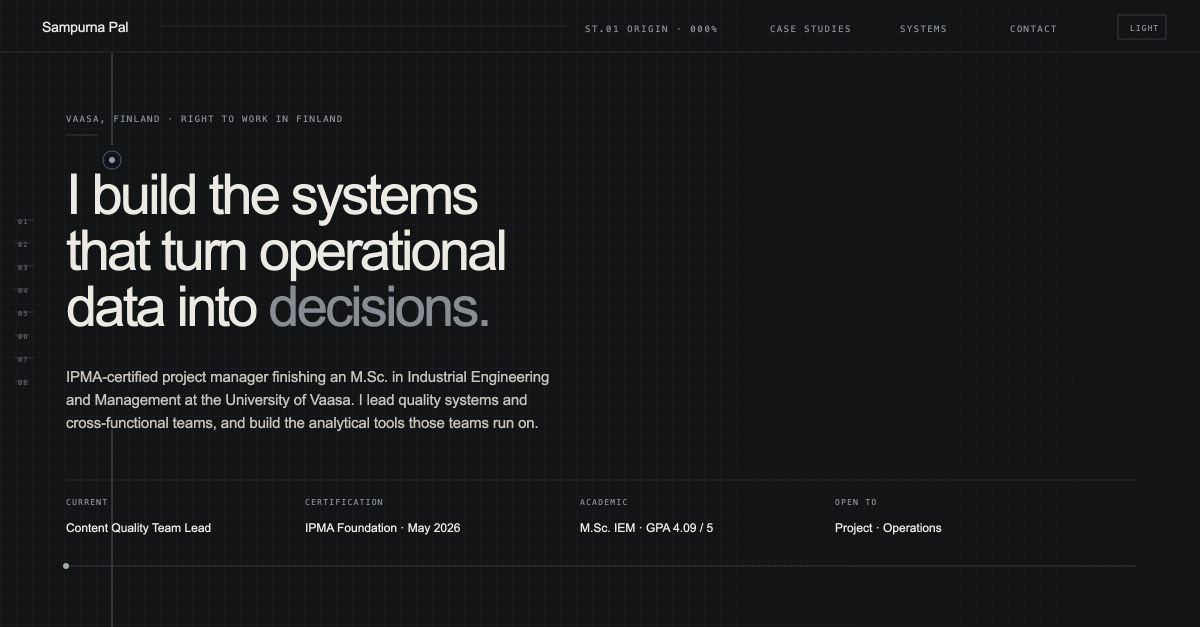
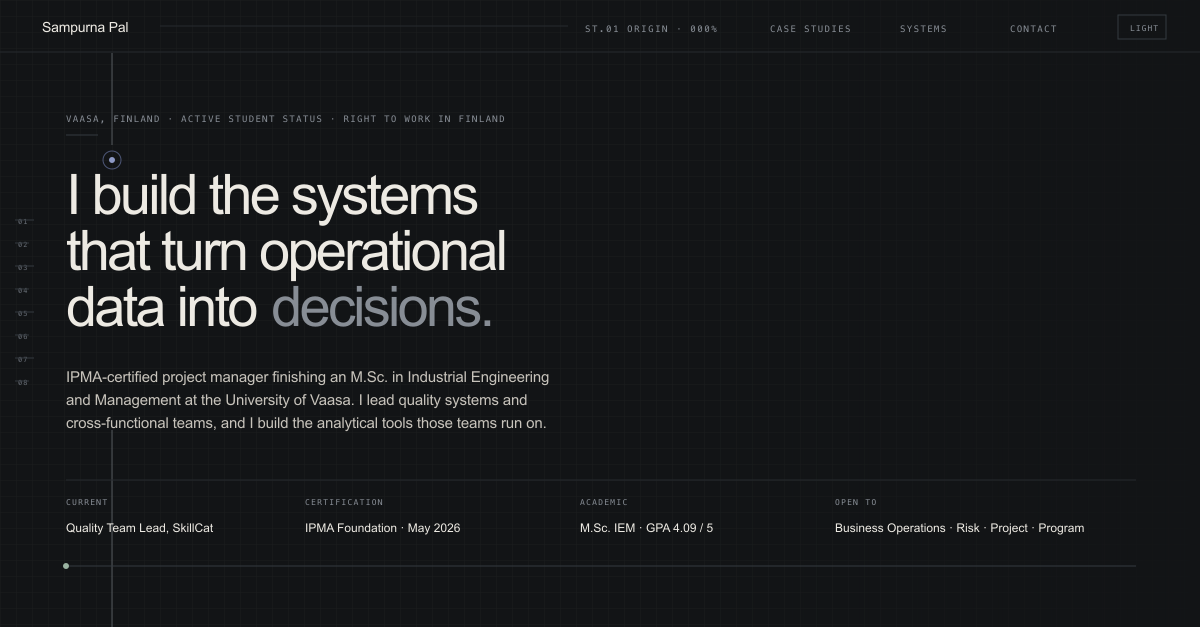
fix: repair mobile case headers and nav, refresh dated content
- Case study headers no longer overlap on screens up to 860px. The collapse
  rule sat before the .case-top base rule, so source order cancelled it.
- Section links drop to a second header row below 720px instead of hiding,
  with the section scroll offset driven by --bar-h to clear the taller bar.
- Re-render the OG preview with the current title and target roles.
- Mark the summer school and Finnish 3 & 4 complete, update ECTS to 86.
- Close out BestB4 as a finished incubator project, note Cohort 2 start.
- Drop the dated ungraded-submission note and the 7-month dashboard span.

diff --git a/index.html b/index.html
@@ -64,6 +64,7 @@
   --gut: clamp(1.15rem, 0.6rem + 2.6vw, 3.6rem);
   --sec: clamp(5.5rem, 3.5rem + 8vw, 11rem);
   --rail: 210px;
+  --bar-h: 54px;
 
   /* motion */
   --e-out:  cubic-bezier(0.22, 0.61, 0.36, 1);
@@ -261,8 +262,16 @@ a{ color: inherit; }
   transform: scaleX(0); transform-origin: left center;
   transition: transform 120ms linear;
 }
+/* Below 720px the section links drop to a second row rather than disappearing,
+   so phone visitors can still jump to the cases and contact details. */
 @media (max-width: 720px){
-  .bar-read, .bar-links{ display:none; }
+  .bar-read{ display:none; }
+  .bar{ height:auto; flex-wrap:wrap; row-gap:0; padding-top:.7rem; }
+  .bar-links{
+    order:1; flex-basis:100%; justify-content:space-between;
+    margin-top:.6rem; padding:.55rem 0 .6rem; border-top:1px solid var(--rule);
+  }
+  :root{ --bar-h: 92px; }
 }
 
 /* left measurement rail */
@@ -300,7 +309,7 @@ main{ position:relative; z-index:2; }
   padding: 0 var(--gut);
 }
 
-.sec{ padding: var(--sec) 0; position:relative; scroll-margin-top:54px; }
+.sec{ padding: var(--sec) 0; position:relative; scroll-margin-top: var(--bar-h); }
 .sec + .sec{ border-top: 1px solid var(--rule); }
 
 .sec-head{
@@ -329,11 +338,7 @@ main{ position:relative; z-index:2; }
 .grid2 > *, .sec-head > *, .case-top > *{ min-width: 0; }
 .figure, .figure-body{ min-width: 0; }
 @media (max-width: 860px){
-  /* .case-top has to collapse here too. It is built on the same
-     `var(--rail) 1fr` track pair, so with --rail at 0 its first column became
-     0px wide while the case ID text kept its own width and painted straight
-     over the case title and body copy. */
-  .sec-head, .grid2, .case-top{ grid-template-columns: 1fr; gap: 1.1rem; }
+  .sec-head, .grid2{ grid-template-columns: 1fr; gap: 1.1rem; }
   :root{ --rail: 0px; }
 }
 
@@ -465,6 +470,13 @@ h1.hero-title em{ font-style: normal; color: var(--slate); }
 .case h3{ font-size: clamp(1.35rem,1.05rem+1.1vw,1.95rem); max-width:22ch; letter-spacing:-0.026em; }
 .case .ctx{ margin-top:.65rem; color: var(--slate); }
 .case .body{ margin-top:1.15rem; color: var(--ink-2); max-width:62ch; line-height:1.6; }
+/* .case-top is built on the same `var(--rail) 1fr` track pair as .sec-head, so
+   with --rail at 0 its first column is 0px wide and the case ID paints straight
+   over the title and body copy. The collapse has to sit after the base rule
+   above, or source order cancels it. */
+@media (max-width: 860px){
+  .case-top{ grid-template-columns: 1fr; gap: .9rem; }
+}
 
 .figure{
   margin-top: clamp(1.8rem, 3.5vw, 3rem);
@@ -848,7 +860,7 @@ svg.dg .lat{ fill:none; stroke: var(--indigo); stroke-width:.8; opacity:0; }
     <dl class="hero-meta rv">
       <div><dt class="mono">Current</dt><dd>Quality Team Lead, SkillCat</dd></div>
       <div><dt class="mono">Certification</dt><dd>IPMA Foundation, May 2026</dd></div>
-      <div><dt class="mono">Academic</dt><dd>M.Sc. IEM, GPA 4.09 / 5 · 75 ECTS</dd></div>
+      <div><dt class="mono">Academic</dt><dd>M.Sc. IEM, GPA 4.09 / 5 · 86 ECTS</dd></div>
       <div><dt class="mono">Open to</dt><dd>Business Operations, Risk, Project, Program</dd></div>
     </dl>
   </div>
@@ -949,10 +961,10 @@ svg.dg .lat{ fill:none; stroke: var(--indigo); stroke-width:.8; opacity:0; }
           <div class="org">SkillCat, remote. Skilled-trades e-learning, 400,000+ tradespeople trained. Promoted from Content Quality Analyst (Jan 2026).</div>
           <ul>
             <li>Lead a team of 5 across quality assurance, content operations, and digitization.</li>
-            <li>Designed and own the SkillMap Cohort 1 Tracker.</li>
+            <li>Designed and own the SkillMap Cohort 1 Tracker (79 candidates, closed August 2026). Cohort 2 starts mid-November 2026.</li>
             <li>Built a 30-day, 5-department onboarding framework from scratch.</li>
             <li>Developed a 15-stage course production QA pipeline, Master Checklist v1.05, through 5+ revisions.</li>
-            <li>Report to leadership weekly through a live Looker Studio dashboard consolidating 7 months of quality-ticket data.</li>
+            <li>Report to leadership weekly through a live Looker Studio dashboard that consolidates the team's quality-ticket data.</li>
             <li>Ran ad-hoc audits across 2,000+ questions in 8 flagship courses, correcting faulty items, closing a PPE-labeling gap with a hazard-symbol fix, and rewriting duplicate BSP questions into situational formats.</li>
             <li>Facilitate daily team check-ins and end-of-day reviews, 3 to 4 weekly working sessions on active initiatives, and two weeks of daily onboarding sessions for every new hire.</li>
             <li>Pushed back on a proposal for full deadline automation from the Chief of Staff and recommended a manual-review dashboard with a bulk-fail action instead.</li>
@@ -968,10 +980,10 @@ svg.dg .lat{ fill:none; stroke: var(--indigo); stroke-width:.8; opacity:0; }
           <h3>Founder in Residence</h3>
           <div class="org">Vaasa Startup Factory</div>
           <ul>
-            <li>Co-founded BestB4, a real-time discount platform connecting Finnish grocery retailers with price-sensitive, sustainability-minded shoppers to cut food waste. Built over two months in Summer Bloom 2026, the Vaasa Startup Factory student incubator run with the six universities of Vaasa. Now raising pre-seed funding for a Vaasa pilot.</li>
+            <li>Co-founded BestB4, a real-time discount platform connecting Finnish grocery retailers with price-sensitive, sustainability-minded shoppers to cut food waste. Built as a two-month project in Summer Bloom 2026, the Vaasa Startup Factory student incubator run with the six universities of Vaasa. The project closed when the programme ended.</li>
           </ul>
         </div>
-        <div class="tl-span"><div class="bar-track"><div class="bar-fill" style="--w:.34;--dl:160ms"></div></div><small>Co-founder</small></div>
+        <div class="tl-span"><div class="bar-track"><div class="bar-fill" style="--w:.34;--dl:160ms"></div></div><small>Incubator project</small></div>
       </article>
 
       <article class="tl-row">
@@ -1097,7 +1109,7 @@ svg.dg .lat{ fill:none; stroke: var(--indigo); stroke-width:.8; opacity:0; }
         <div class="accent"><dt class="mono">Completed program</dt><dd><span class="num" data-count="45">45</span><small>of 79</small></dd></div>
       </dl>
 
-      <p class="note">The flagged figure is the weekly review shortlist produced by the risk rules, not a final outcome; the remaining 46 were classified On Track. Final cohort figures are week 10 of 10. Candidate count excludes test accounts present in week 1. Two submissions, from weeks 2 and 7, were still ungraded at the last sync on 9 August 2026.</p>
+      <p class="note">The flagged figure is the weekly review shortlist produced by the risk rules, not a final outcome; the remaining 46 were classified On Track. Final cohort figures are week 10 of 10, from the last sync on 9 August 2026. Candidate count excludes test accounts present in week 1.</p>
     </article>
 
     <!-- ---- CASE 2 : FACTORY CELL ---- -->
@@ -1515,7 +1527,7 @@ svg.dg .lat{ fill:none; stroke: var(--indigo); stroke-width:.8; opacity:0; }
           <div class="spec">
             <div>
               <h4>QFT Trends dashboard</h4>
-              <p>A live Looker Studio dashboard consolidating 7 months of quality-ticket data, reviewed with leadership weekly. Shared as a live link rather than static figures.</p>
+              <p>A live Looker Studio dashboard consolidating the team's quality-ticket data, reviewed with leadership weekly. Shared as a live link rather than static figures.</p>
             </div>
             <div class="flag mono hold">Link on request</div>
           </div>
@@ -1597,11 +1609,11 @@ svg.dg .lat{ fill:none; stroke: var(--indigo); stroke-width:.8; opacity:0; }
     <div class="creds">
       <div class="cred-block">
         <h4>Education</h4>
-        <div class="cred"><div><strong>M.Sc. Economics and Business Administration, Industrial Engineering &amp; Management</strong><span>University of Vaasa, Finland. In progress, expected August 2027. Active student status. 75 ECTS completed, 11 in progress.</span></div><div class="g mono">GPA 4.09</div></div>
+        <div class="cred"><div><strong>M.Sc. Economics and Business Administration, Industrial Engineering &amp; Management</strong><span>University of Vaasa, Finland. In progress, expected August 2027. Active student status. 86 ECTS completed.</span></div><div class="g mono">GPA 4.09</div></div>
         <div class="cred"><div><strong>Key courses, grade 5 / 5</strong><span>Decision Analysis, Operations Management Methods, Supply Chain Design, Modelling &amp; Simulation, Introduction to Operations Management. Operations Research 4/5, Quality &amp; Reliability Management 3/5.</span></div><div class="g mono">5 / 5</div></div>
         <div class="cred"><div><strong>Student exchange, Micro-Nano Technologies &amp; Sensors for Global Challenges</strong><span>Universidad de Cantabria, Santander, Spain. Erasmus+, Jun to Jul 2026.</span></div><div class="g mono">Erasmus+</div></div>
-        <div class="cred"><div><strong>International Summer School on Entrepreneurship and Venturing</strong><span>University of Vaasa, Finland. International Entrepreneurship, Ideation and Venture Creation, Start-up Scouting and Valuation. 10 to 28 August 2026. In progress.</span></div><div class="g mono">11 ECTS</div></div>
-        <div class="cred"><div><strong>Finnish language studies, Finnish 3 &amp; 4</strong><span>Metropolia University of Applied Sciences, Helsinki. In progress.</span></div><div class="g mono">B1</div></div>
+        <div class="cred"><div><strong>International Summer School on Entrepreneurship and Venturing</strong><span>University of Vaasa, Finland. International Entrepreneurship, Ideation and Venture Creation, Start-up Scouting and Valuation. 10 to 28 August 2026.</span></div><div class="g mono">11 ECTS</div></div>
+        <div class="cred"><div><strong>Finnish language studies, Finnish 3 &amp; 4</strong><span>Metropolia University of Applied Sciences, Helsinki. Completed.</span></div><div class="g mono">B1</div></div>
         <div class="cred"><div><strong>M.Sc. Economics</strong><span>Vidyasagar University, India, 2021.</span></div><div class="g mono">2021</div></div>
         <div class="cred"><div><strong>B.Sc. Economics</strong><span>Midnapore College Autonomous, India, 2019.</span></div><div class="g mono">2019</div></div>
       </div>
